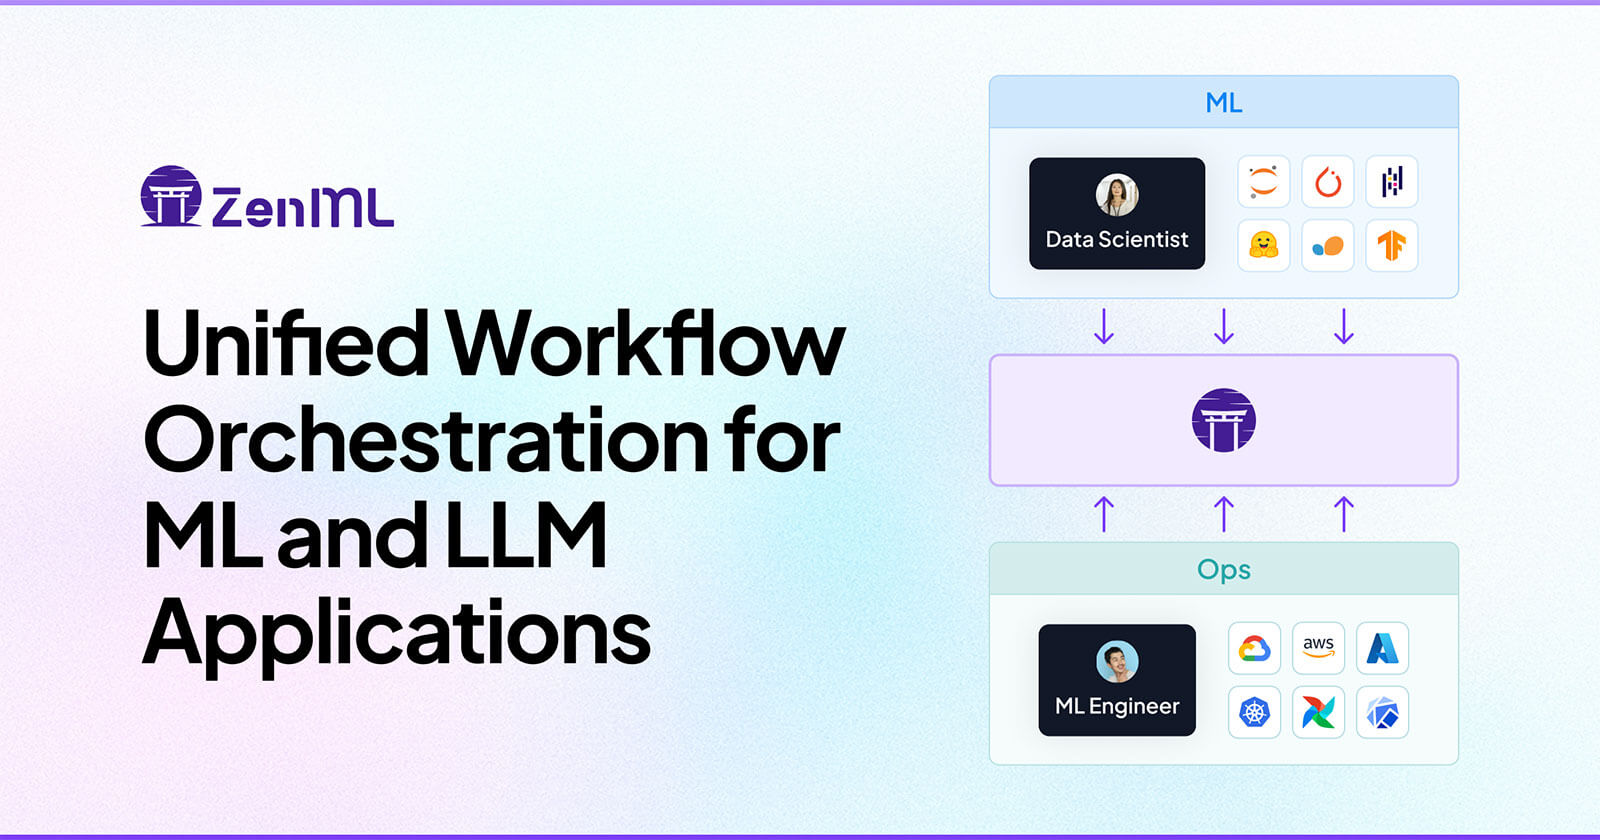
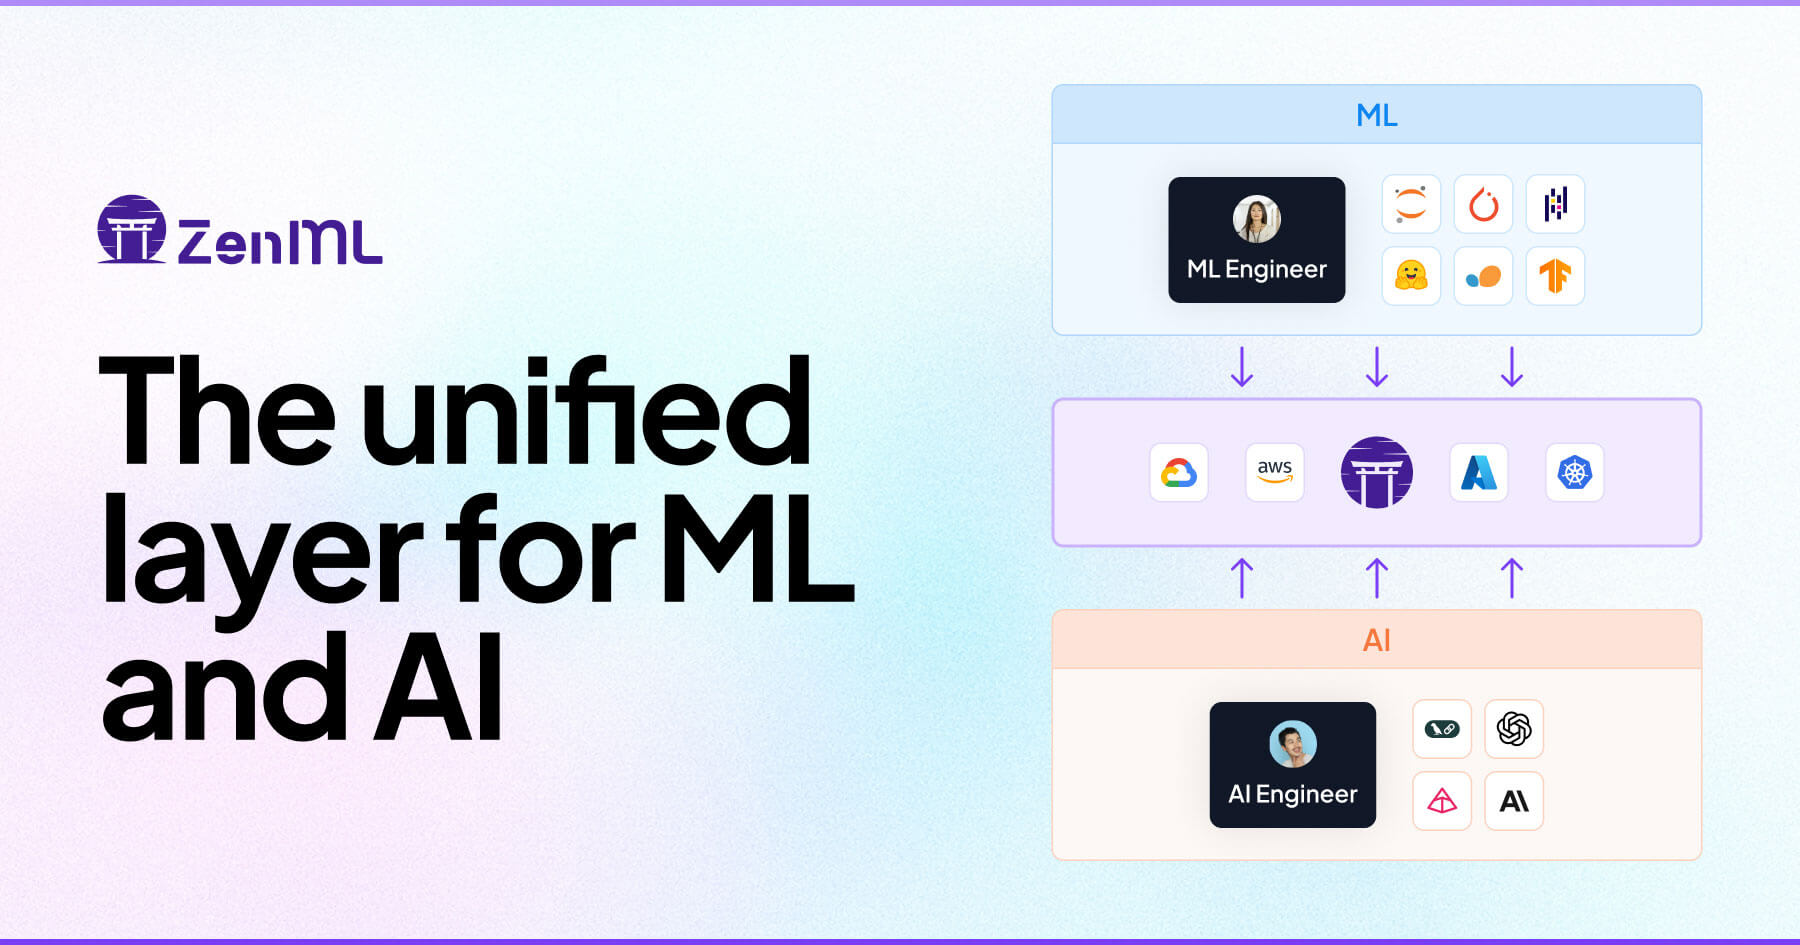
homepage: refresh OG description and graphic to match unified hero
The homepage OG metadata was stale — the description was generic
"open-source infrastructure" copy unrelated to the hero, and the OG
image still showed the pre-unification 'Unified Workflow
Orchestration for ML and LLM Applications' wording with a Data
Scientist + Ops layout.

- HOMEPAGE_UNIFIED_SEO.description: now matches the hero subtitle
  verbatim — 'Orchestrate training pipelines and durable AI agents on
  the tools, clouds, and environments you already use — without
  rewriting your stack.' (Title keeps the 'ZenML — ' prefix for SEO.)
- og-default.jpg: new 1800x945 graphic with the unified hero copy,
  ML row up top (ML Engineer + training-stack logos), cloud + k8s
  substrate in the middle band, AI row at the bottom (AI Engineer +
  LangChain, OpenAI, Pydantic AI, Anthropic). Wiring unchanged —
  DEFAULT_OG_IMAGE still points to /images/og-default.jpg.

diff --git a/src/lib/homepage-unified.ts b/src/lib/homepage-unified.ts
@@ -32,7 +32,7 @@ import type { Surface } from "./analytics";
 export const HOMEPAGE_UNIFIED_SEO = {
   title: "ZenML — The unified layer for ML and AI",
   description:
-    "Open-source infrastructure for teams shipping ML pipelines and AI agents on their own stack. Modular, vendor-neutral, runs anywhere — always.",
+    "Orchestrate training pipelines and durable AI agents on the tools, clouds, and environments you already use — without rewriting your stack.",
   surface: "unified" satisfies Surface,
 } as const;
 
